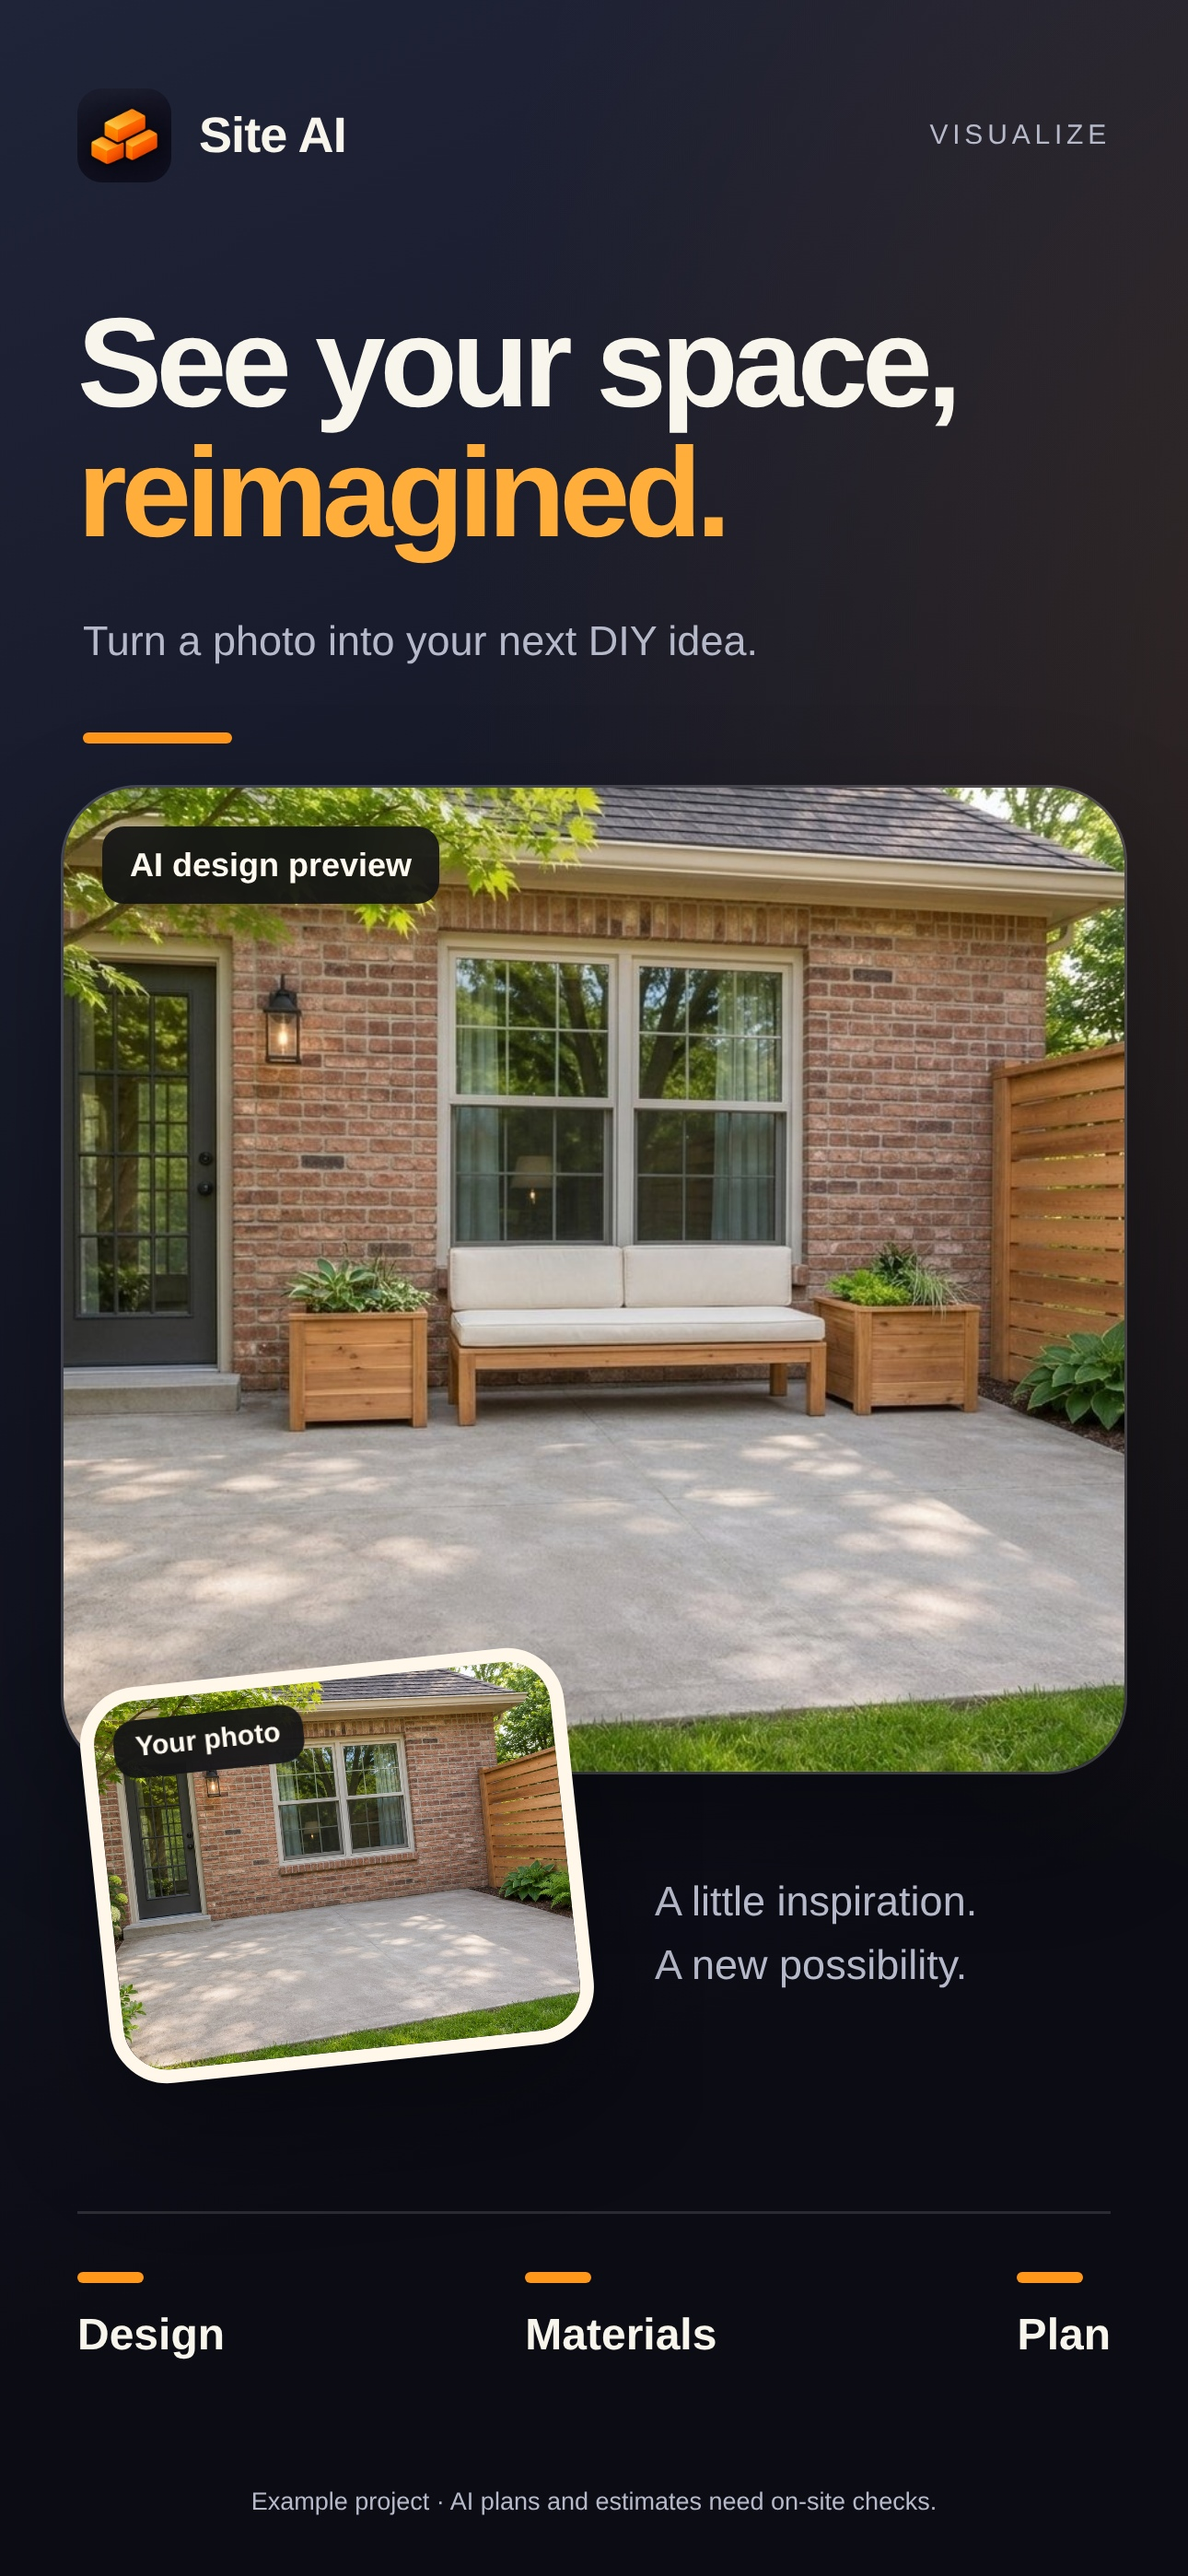
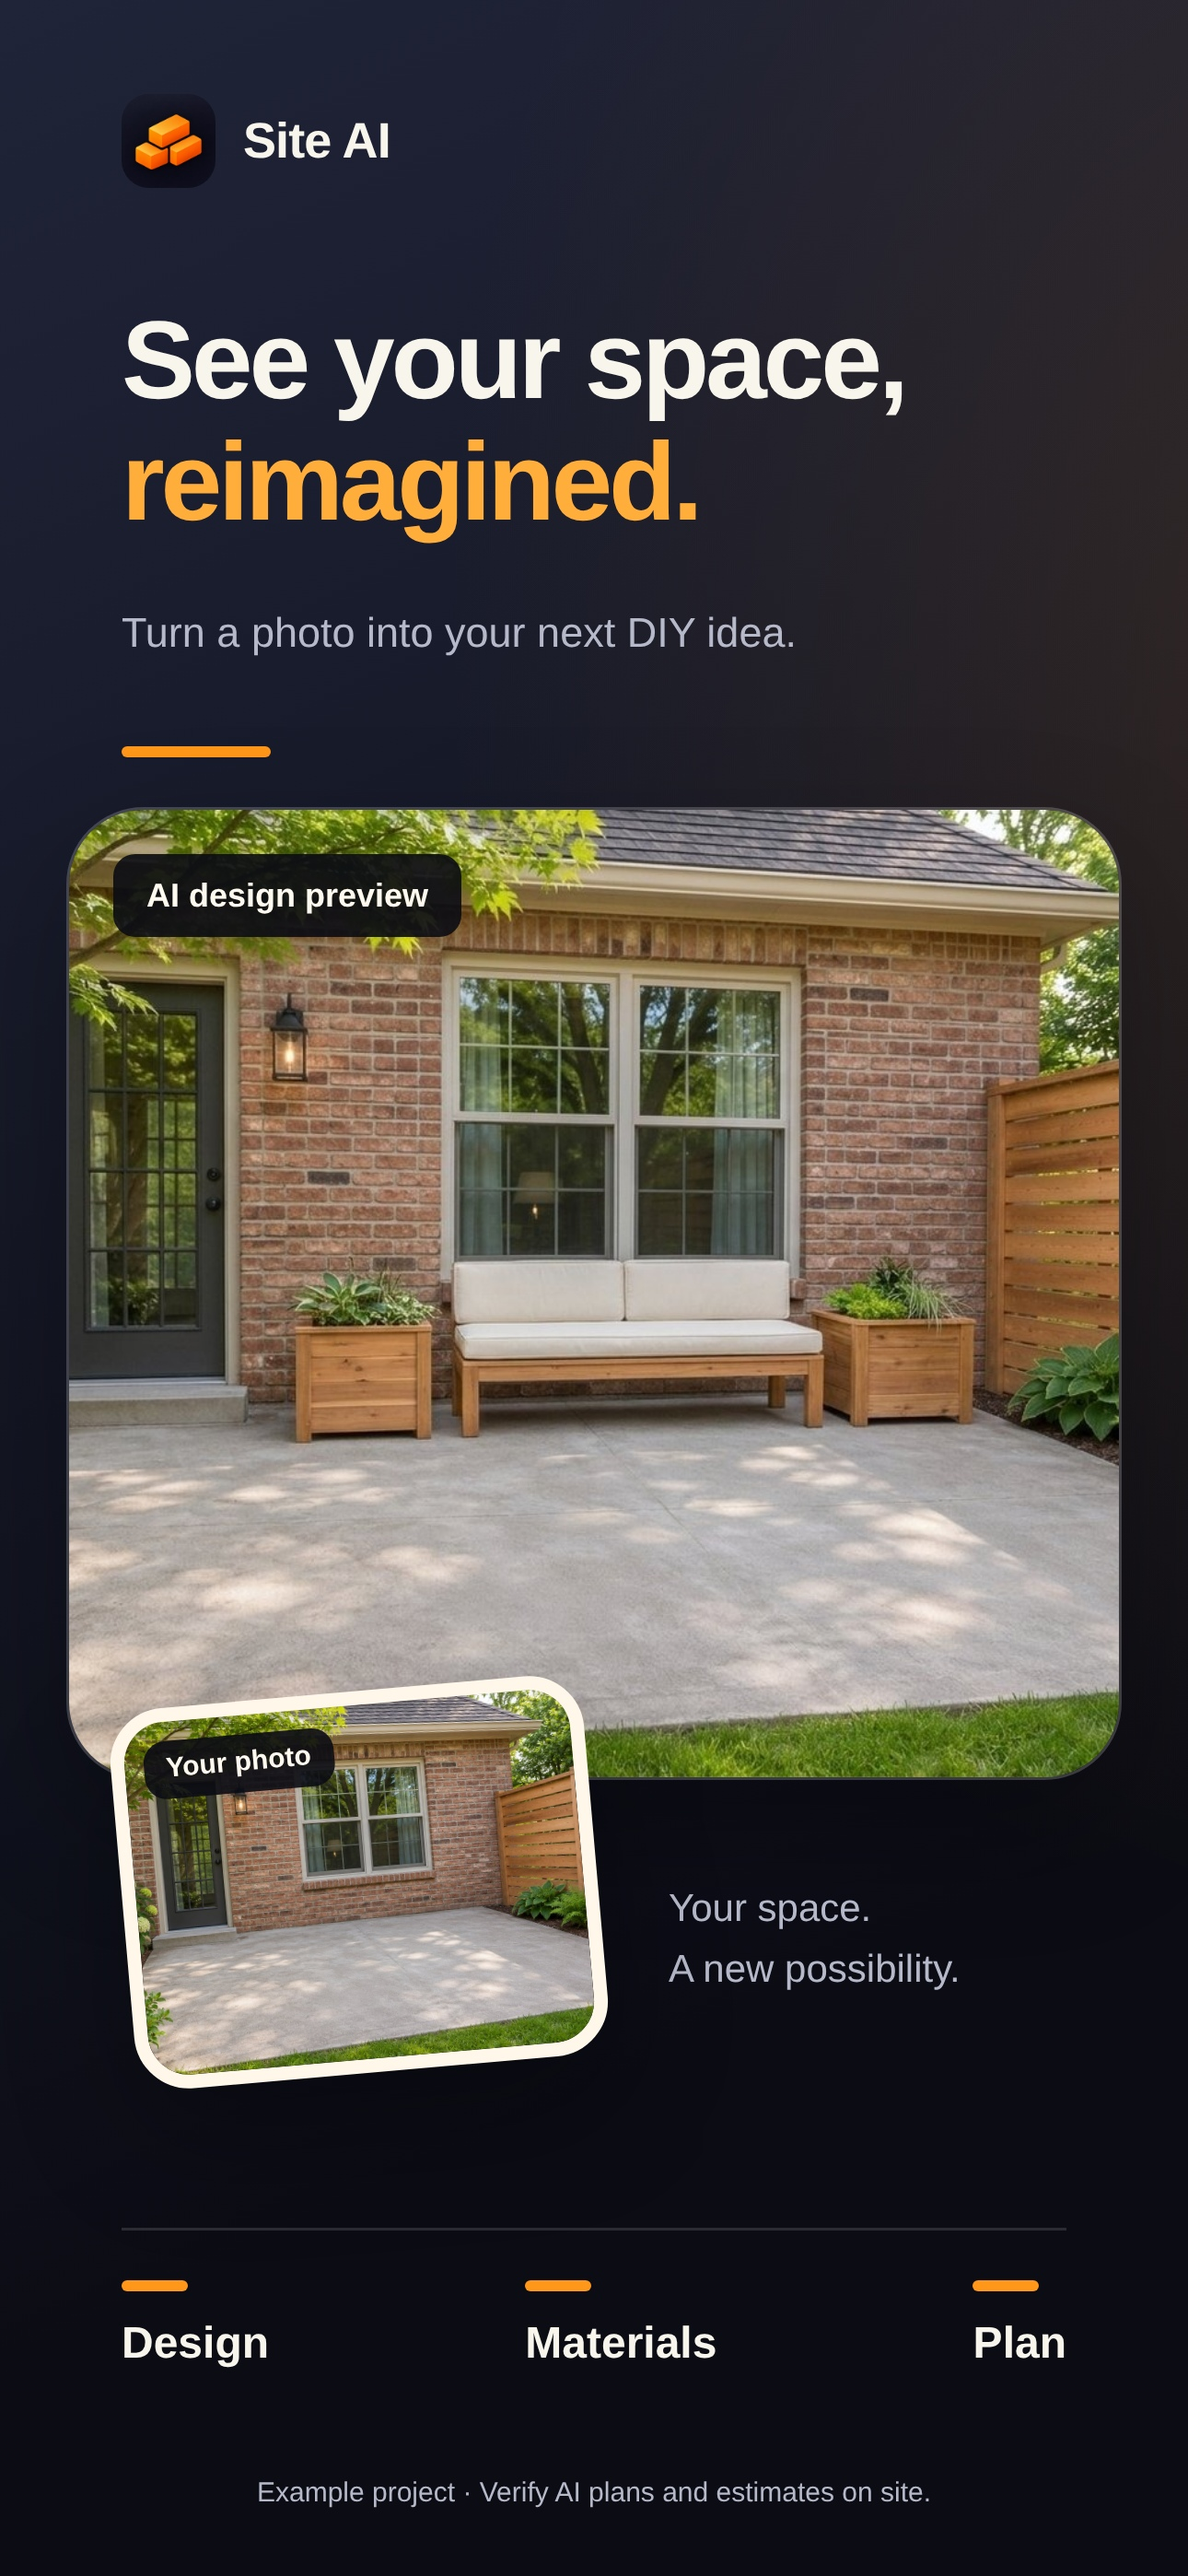
Add spacious iPhone and iPad App Store feature galleries

diff --git a/public/appstore/listing/index.html b/public/appstore/listing/index.html
@@ -1,1 +1,1 @@
-<!doctype html><html><head><meta name="viewport" content="width=device-width,initial-scale=1"><title>Site AI App Store screenshots</title><style>body{background:#0b0c14;color:#f8f5ec;font-family:Arial,sans-serif;padding:24px}.grid{display:grid;grid-template-columns:repeat(auto-fit,minmax(180px,1fr));gap:16px}img{width:100%;border-radius:14px}p{color:#b6b9c9}</style></head><body><h1>Site AI screenshots</h1><p>Draft listing assets from the current shared interface and a real AI example. Browser-rendered; final iPhone review remains necessary.</p><div class="grid"><a href="01-design.jpg"><img src="01-design.jpg"/></a><a href="02-projects.jpg"><img src="02-projects.jpg"/></a><a href="03-materials.jpg"><img src="03-materials.jpg"/></a><a href="04-plan.jpg"><img src="04-plan.jpg"/></a><a href="05-measurements.jpg"><img src="05-measurements.jpg"/></a></div></body></html>
+<!doctype html><html><head><meta name="viewport" content="width=device-width,initial-scale=1"><title>Site AI screenshots</title><style>body{margin:0;padding:32px;background:#0b0c14;color:#f8f5ec;font-family:Arial,sans-serif}h1,h2{letter-spacing:-.5px}p{color:#b6b9c9;line-height:1.6;max-width:760px}.grid{display:grid;grid-template-columns:repeat(auto-fit,minmax(190px,1fr));gap:22px;margin-bottom:50px}img{width:100%;border-radius:14px}h2{margin-top:40px}a{color:#ffad3b}</style></head><body><h1>Site AI · App Store screenshots</h1><p>Shorter captions, wider margins, and eight feature views for each device. The iPad set uses an independently rendered tablet layout. Shared app interface with marketing framing; physical-device acceptance remains pending.</p><h2>iPhone</h2><div class="grid"><a href="01-design.jpg"><img loading="lazy" src="01-design.jpg" alt="Site AI 01-design.jpg"></a><a href="02-projects.jpg"><img loading="lazy" src="02-projects.jpg" alt="Site AI 02-projects.jpg"></a><a href="03-details.jpg"><img loading="lazy" src="03-details.jpg" alt="Site AI 03-details.jpg"></a><a href="04-materials.jpg"><img loading="lazy" src="04-materials.jpg" alt="Site AI 04-materials.jpg"></a><a href="05-plan.jpg"><img loading="lazy" src="05-plan.jpg" alt="Site AI 05-plan.jpg"></a><a href="06-measurements.jpg"><img loading="lazy" src="06-measurements.jpg" alt="Site AI 06-measurements.jpg"></a><a href="07-tools.jpg"><img loading="lazy" src="07-tools.jpg" alt="Site AI 07-tools.jpg"></a><a href="08-revisions.jpg"><img loading="lazy" src="08-revisions.jpg" alt="Site AI 08-revisions.jpg"></a></div><h2>iPad</h2><div class="grid"><a href="ipad/01-design.jpg"><img loading="lazy" src="ipad/01-design.jpg" alt="Site AI 01-design.jpg"></a><a href="ipad/02-projects.jpg"><img loading="lazy" src="ipad/02-projects.jpg" alt="Site AI 02-projects.jpg"></a><a href="ipad/03-details.jpg"><img loading="lazy" src="ipad/03-details.jpg" alt="Site AI 03-details.jpg"></a><a href="ipad/04-materials.jpg"><img loading="lazy" src="ipad/04-materials.jpg" alt="Site AI 04-materials.jpg"></a><a href="ipad/05-plan.jpg"><img loading="lazy" src="ipad/05-plan.jpg" alt="Site AI 05-plan.jpg"></a><a href="ipad/06-measurements.jpg"><img loading="lazy" src="ipad/06-measurements.jpg" alt="Site AI 06-measurements.jpg"></a><a href="ipad/07-tools.jpg"><img loading="lazy" src="ipad/07-tools.jpg" alt="Site AI 07-tools.jpg"></a><a href="ipad/08-revisions.jpg"><img loading="lazy" src="ipad/08-revisions.jpg" alt="Site AI 08-revisions.jpg"></a></div></body></html>

diff --git a/public/appstore/listing/ipad/index.html b/public/appstore/listing/ipad/index.html
@@ -1,0 +1,1 @@
+<!doctype html><html><head><meta name="viewport" content="width=device-width,initial-scale=1"><title>Site AI App Store screenshots</title><style>body{background:#0b0c14;color:#f8f5ec;font-family:Arial,sans-serif;padding:24px}.grid{display:grid;grid-template-columns:repeat(auto-fit,minmax(180px,1fr));gap:16px}img{width:100%;border-radius:14px}p{color:#b6b9c9}</style></head><body><h1>Site AI screenshots</h1><p>Draft listing assets from the current shared interface and a real AI example. Browser-rendered; final iPhone review remains necessary.</p><div class="grid"><a href="01-design.jpg"><img src="01-design.jpg"/></a><a href="02-projects.jpg"><img src="02-projects.jpg"/></a><a href="03-details.jpg"><img src="03-details.jpg"/></a><a href="04-materials.jpg"><img src="04-materials.jpg"/></a><a href="05-plan.jpg"><img src="05-plan.jpg"/></a><a href="06-measurements.jpg"><img src="06-measurements.jpg"/></a><a href="07-tools.jpg"><img src="07-tools.jpg"/></a><a href="08-revisions.jpg"><img src="08-revisions.jpg"/></a></div></body></html>
